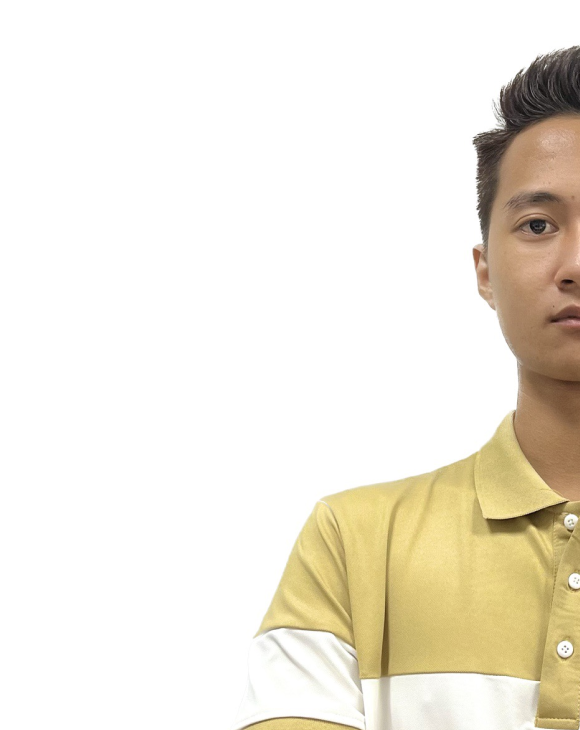
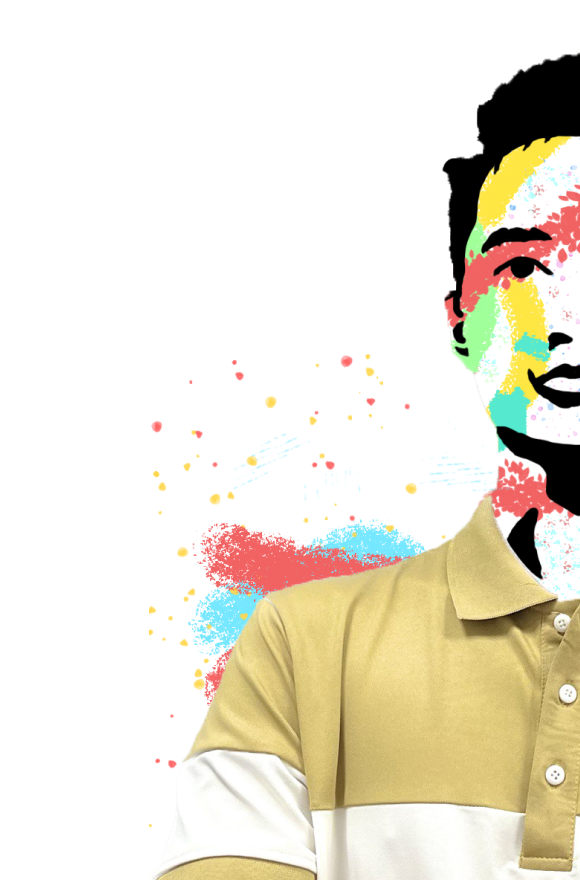
update

diff --git a/src/components/Banner.js b/src/components/Banner.js
@@ -59,7 +59,7 @@ function Banner() {
               </div>
               <img
                 className="ml-auto"
-                src={require("../assets/imgaes/1 2.png")}
+                src={require("../assets/imgaes/banner 1.png")}
               ></img>
             </div>
           </div>
@@ -79,12 +79,12 @@ function Banner() {
                 <span className="sm:text-4xl text-xl z-10 font-[300] relative after:absolute after:z-[-1] after:w-1/2 after:h-3 after:bg-primary after:right-0 after:bottom-2 hover:after:w-full after:transition-all">{`<Developer>`}</span>
                 <p className="sm:text-md text-sm text-slate-500 mt-2 text-end w-[60%] mb-2">
                   Front-end developer who focus on writing clean, elegent and
-                  effectciant code
+                  effectciant coden
                 </p>
               </div>
               <img
                 className="top-0 left-0 z-0 "
-                src={require("../assets/imgaes/1 3.png")}
+                src={require("../assets/imgaes/banner 2.png")}
               ></img>
             </div>
           </div>

diff --git a/src/components/ProjectItem.js b/src/components/ProjectItem.js
@@ -22,7 +22,7 @@ function ProjectItem(props) {
             <div className="my-4 w-40 h-12 relative sm:ml-0 ml-[10px]">
               <a
                 className="w-full h-full text-lg text-white hover-text-primary bg-primary text-center leading-[3rem] relative block translate-x-[-10px] translate-y-[-10px] hover:translate-x-0 hover:translate-y-0 transition-all"
-                href="../assets/CV_TranVanBaoThang.pdf"
+                href={info.link}
                 download
               >
                 View project

diff --git a/src/data/PROJECT_DATA.js b/src/data/PROJECT_DATA.js
@@ -44,7 +44,7 @@ const PROJECT_DATA = [
         ],
         desc: `Cloning website of Macintosh, this project was done during the beginning time I learned HTML/CSS/JS.`,
         img: "macintosh",
-        link: "https://sawsew467.github.io/Macintosh/"
+        link: "https://sawsew467.github.io/macintosh"
     },
 ]
 
